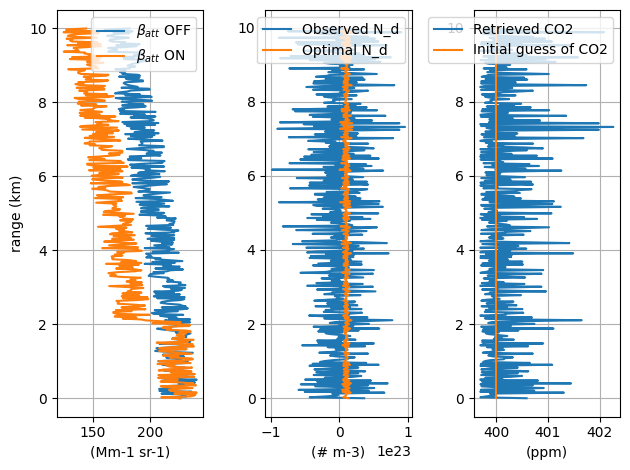
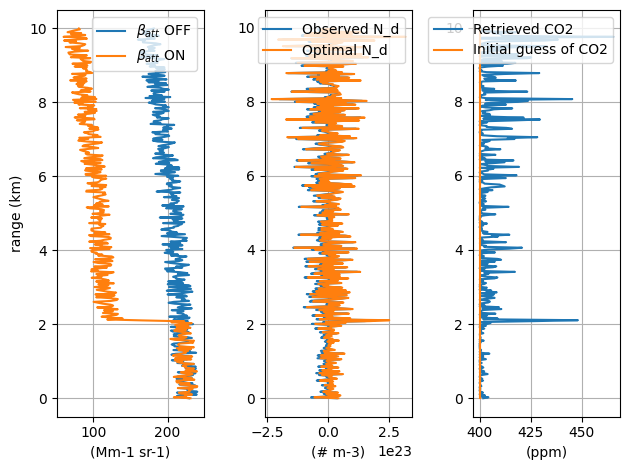
Tested sensitivity of inputs

diff --git a/scripts/DIAL_xco2_retrieval.py b/scripts/DIAL_xco2_retrieval.py
@@ -66,9 +66,9 @@ for i in range(len(range_)-1):
     x_ap = [co2_ppm[i], T_[i], P_[i]]
 
     # covariance matrix for X, uncertainties
-    x_cov = np.array([[50, 0, 0], [0, 1, 0], [0, 0, .1]])
+    x_cov = np.array([[5, 0, 0], [0, 1, 0], [0, 0, .1]])
     # covariance matrix for Y, uncertainty
-    y_cov = np.array([10])
+    y_cov = np.array([1])
 
     # measured observation of Y, Y_i = [y_below, y_above], delta_sigma_abs, beta_on, beta_off
     y_obs = np.array(N_d[i]/1e21)

diff --git a/scripts/simulated_inputs.py b/scripts/simulated_inputs.py
@@ -84,6 +84,6 @@ def sim_noisy_beta_att(len_=400, type_='poly1'):
     aaa = np.array([0, .005, .05, 0.1, .5, .9, .95, .995, 1])
 
     # generate on channel
-    obs_beta_on = np.hstack((obs_beta_on[:80], obs_beta_on[80:89]-aaa*35, obs_beta_on[89:]-35))
+    obs_beta_on = np.hstack((obs_beta_on[:80], obs_beta_on[80:89]-aaa*100, obs_beta_on[89:]-100))
 
     return obs_beta_off/1e6, obs_beta_on/1e6
